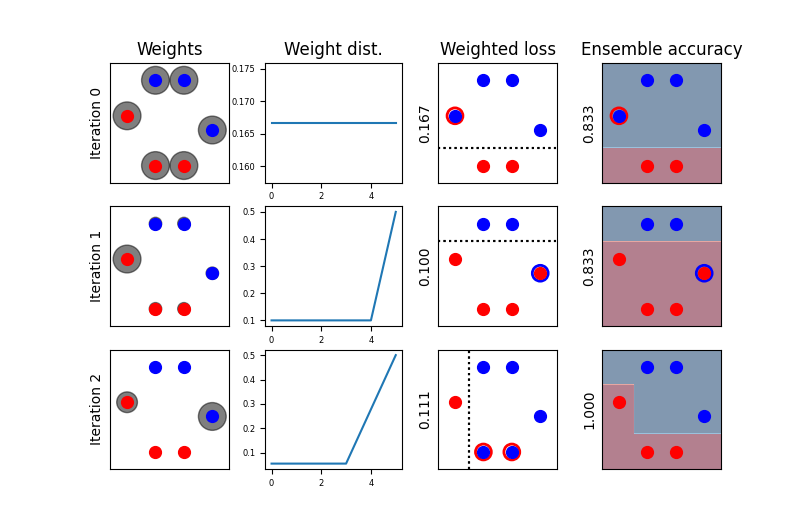
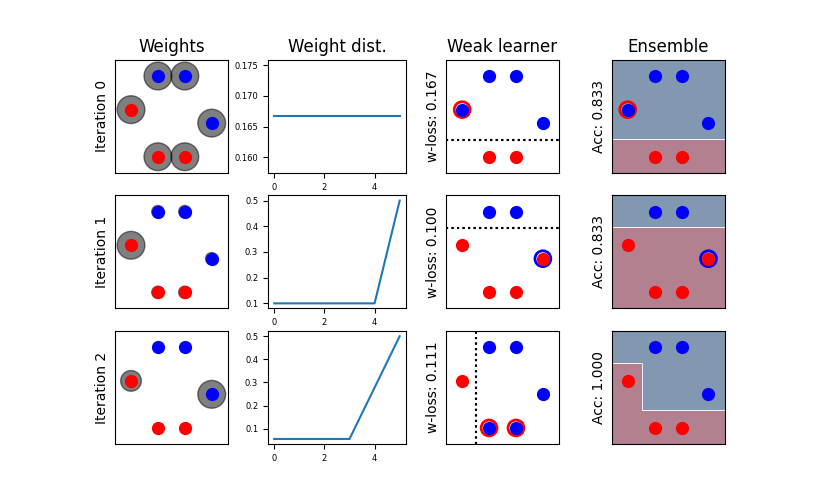
updated readme, fixed image, fixed plot label

diff --git a/ada_boost/ada_demo.py b/ada_boost/ada_demo.py
@@ -115,9 +115,9 @@ class AdaDemo(object):
         self._plot_boundary(ax)
         accuracy = np.mean(y_hat == self._labels)
         if row == 0:
-            ax.set_title('Ensemble accuracy')
+            ax.set_title('Ensemble')
 
-        ax.set_ylabel('%.3f' % (accuracy,))
+        ax.set_ylabel('Acc: %.3f' % (accuracy,))
         ax.set_yticklabels([])
         ax.set_yticks([])
         ax.yaxis.set_visible(True)
@@ -168,8 +168,8 @@ class AdaDemo(object):
 
         new_model.plot(ax)
         if row == 0:
-            ax.set_title('Weighted loss')
-        ax.set_ylabel('%.3f' % (w_loss,))
+            ax.set_title('Weak learner')
+        ax.set_ylabel('w-loss: %.3f' % (w_loss,))
         ax.set_yticklabels([])
         ax.set_yticks([])
         ax.yaxis.set_visible(True)
@@ -270,7 +270,7 @@ class AdaDemo(object):
         plot_classifier(ax, self._points, self._labels, model=y_hat, boundary=None)
         self._plot_boundary(ax)
         accuracy = np.mean(y_hat == self._labels)
-        ax.set_title('Ensemble accuracy\n%% %.3f' % (100 * accuracy,))
+        ax.set_title('Ensemble\n%% %.3f' % (100 * accuracy,))
         ax.yaxis.set_visible(False)
         ax.xaxis.set_visible(False)
         #plt.tight_layout()

diff --git a/ada_boost/README.md b/ada_boost/README.md
@@ -1,13 +1,13 @@
 # AdaBoost
 
-Boosting algorithms build an accurate ensemble classifer from $N$ "weak learners", i.e. classifiers that do little better than guessing.  Let $X$ be the set of $I$ input points, and $Y$ be the set of their labels,  $y_i \in \{-1, 1\}$.  Let each weak learner, $f_j(x_i)$, output its classification of $x_i$ also as a value in $\{-1, 1\}$. 
+Boosting algorithms build an accurate ensemble classifer from $N$ "weak learners", i.e. classifiers that do little better than guessing.  Let $X$ be the set of $I$ input points, and $Y$ be the set of their labels,  $y_i \in \\{-1, 1\\}$.  Let each weak learner, $f_j(x_i)$, output its classification of $x_i$ also as a value in $\{-1, 1\}$. 
 
 Then the goal of [AdaBoost](https://en.wikipedia.org/wiki/AdaBoost) is to learn an ensemble classifier of the form
 
 $$
-F(x_i) = \text{Sign}\left(\sum_{ja=1}^N \alpha_j f_j(x_i) \right) \text{   where}
+F(x_i) = \text{Sign}\left(\sum_{ja=1}^N \alpha_j f_j(x_i) \right) 
 $$
-
+where
 $$
 \text{Sign}(v) =  \begin{cases}
 -1 & \text{if } v < 0 \\
@@ -30,6 +30,7 @@ Run `> python ada_demo.py -h` to see the options, most notably `--kind`, determi
 
 Running `> python ada_demo.py --kind minimal` demonstrates each iteration, using decision stumps as weak learners:
 ![demo](/ada_boost/assets/demo_minimal.png)
+
 The left-most column shows the weights given to each sample, all equal in iteration 0.  The second column shows the distribution of those weights (sorted values). The third column shows the weak learner added at each iteartion given the weighted data, its misclassified points (outlined in the correct class color), and its weighted loss (y-axis label).  The fourth column shows the decision boundary of the ensemble after adding each weak learner, with misclassified points highlighted.
 
 ### compare with Scikit-learn:
